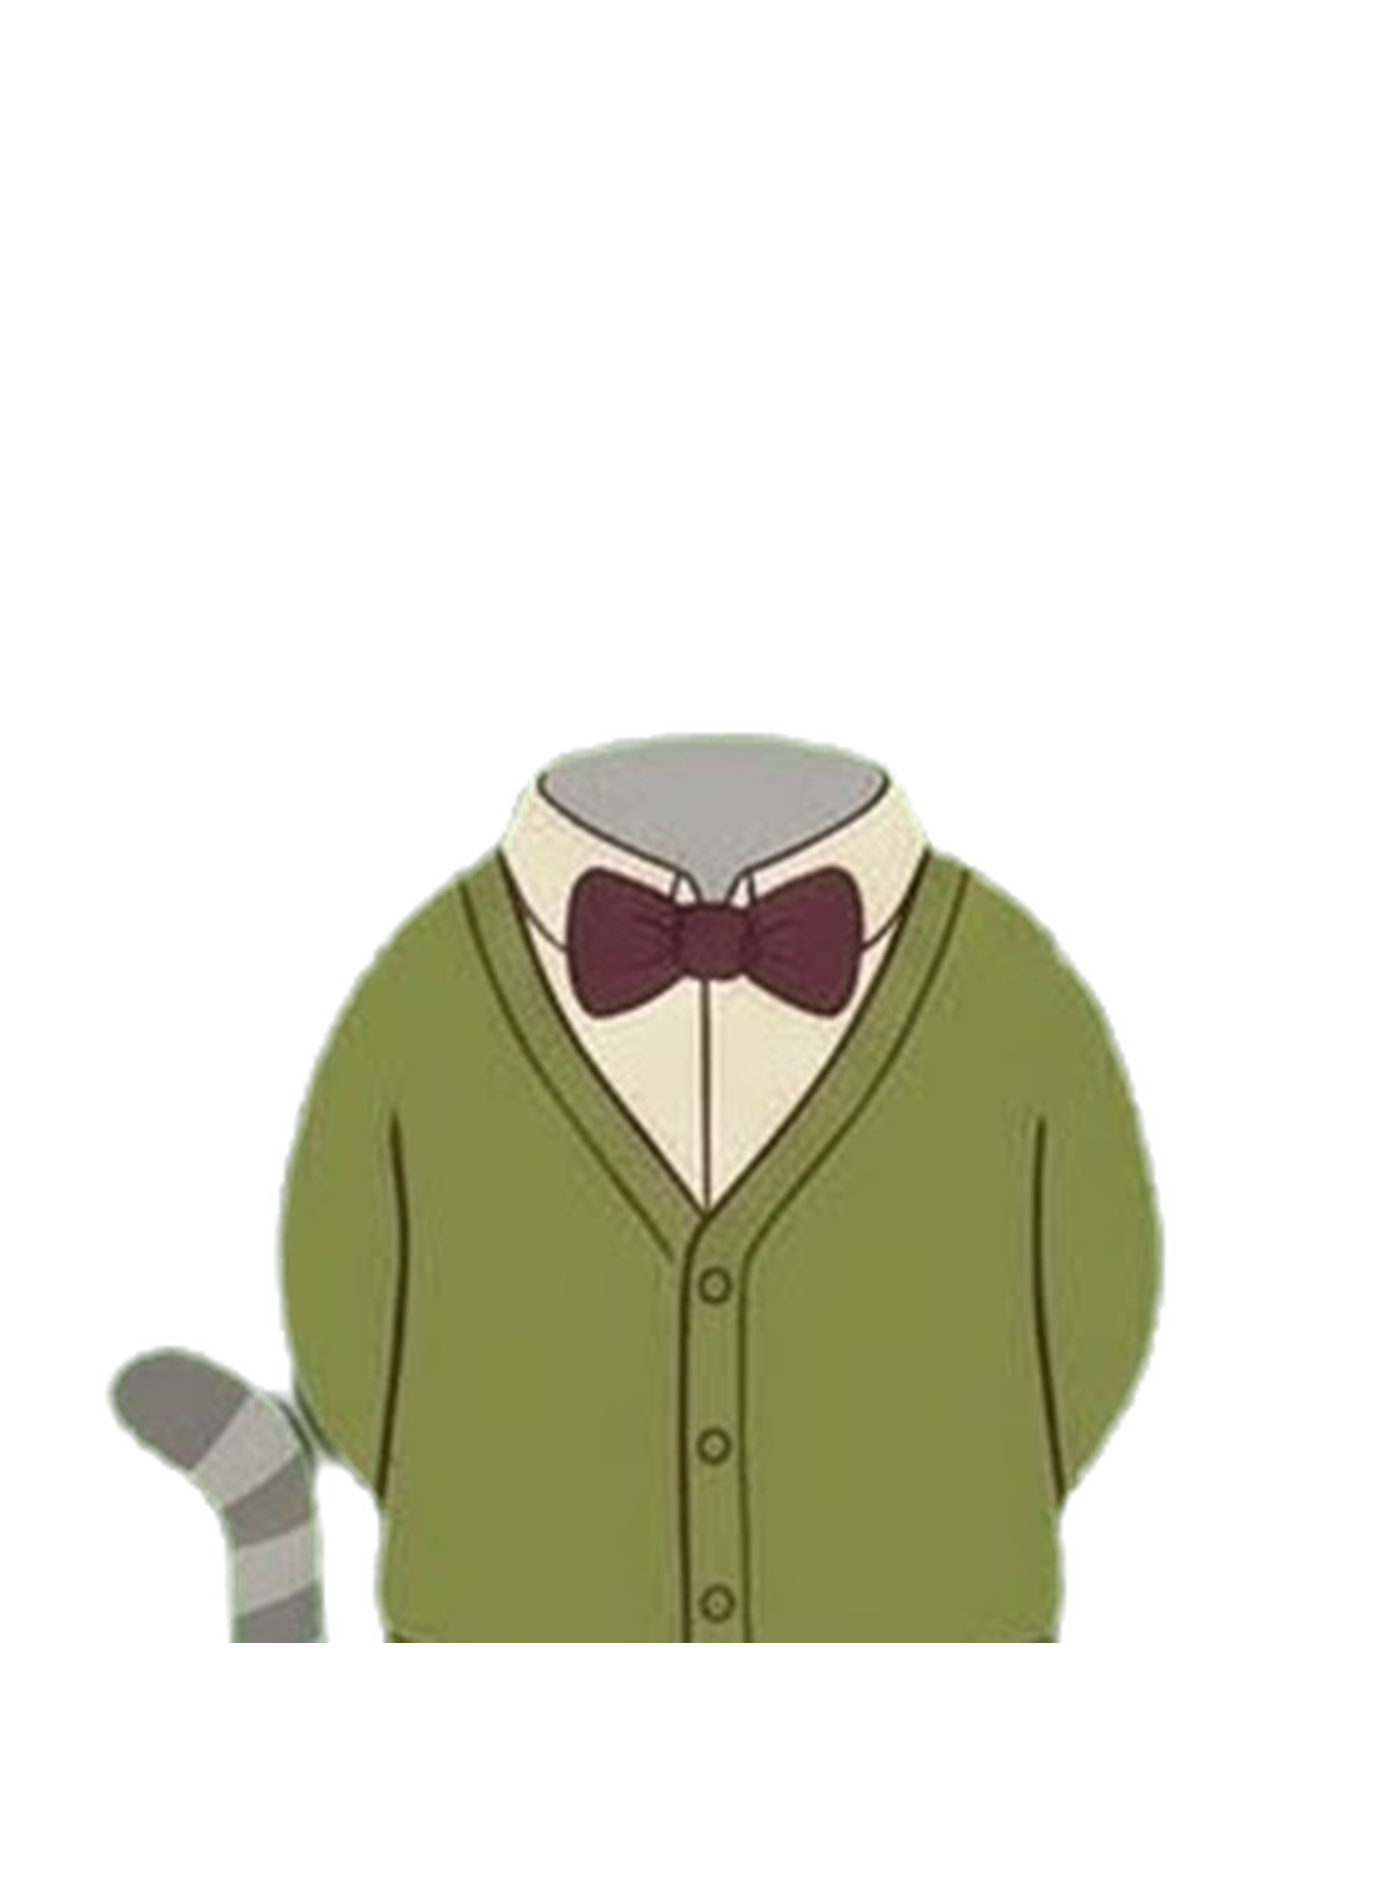
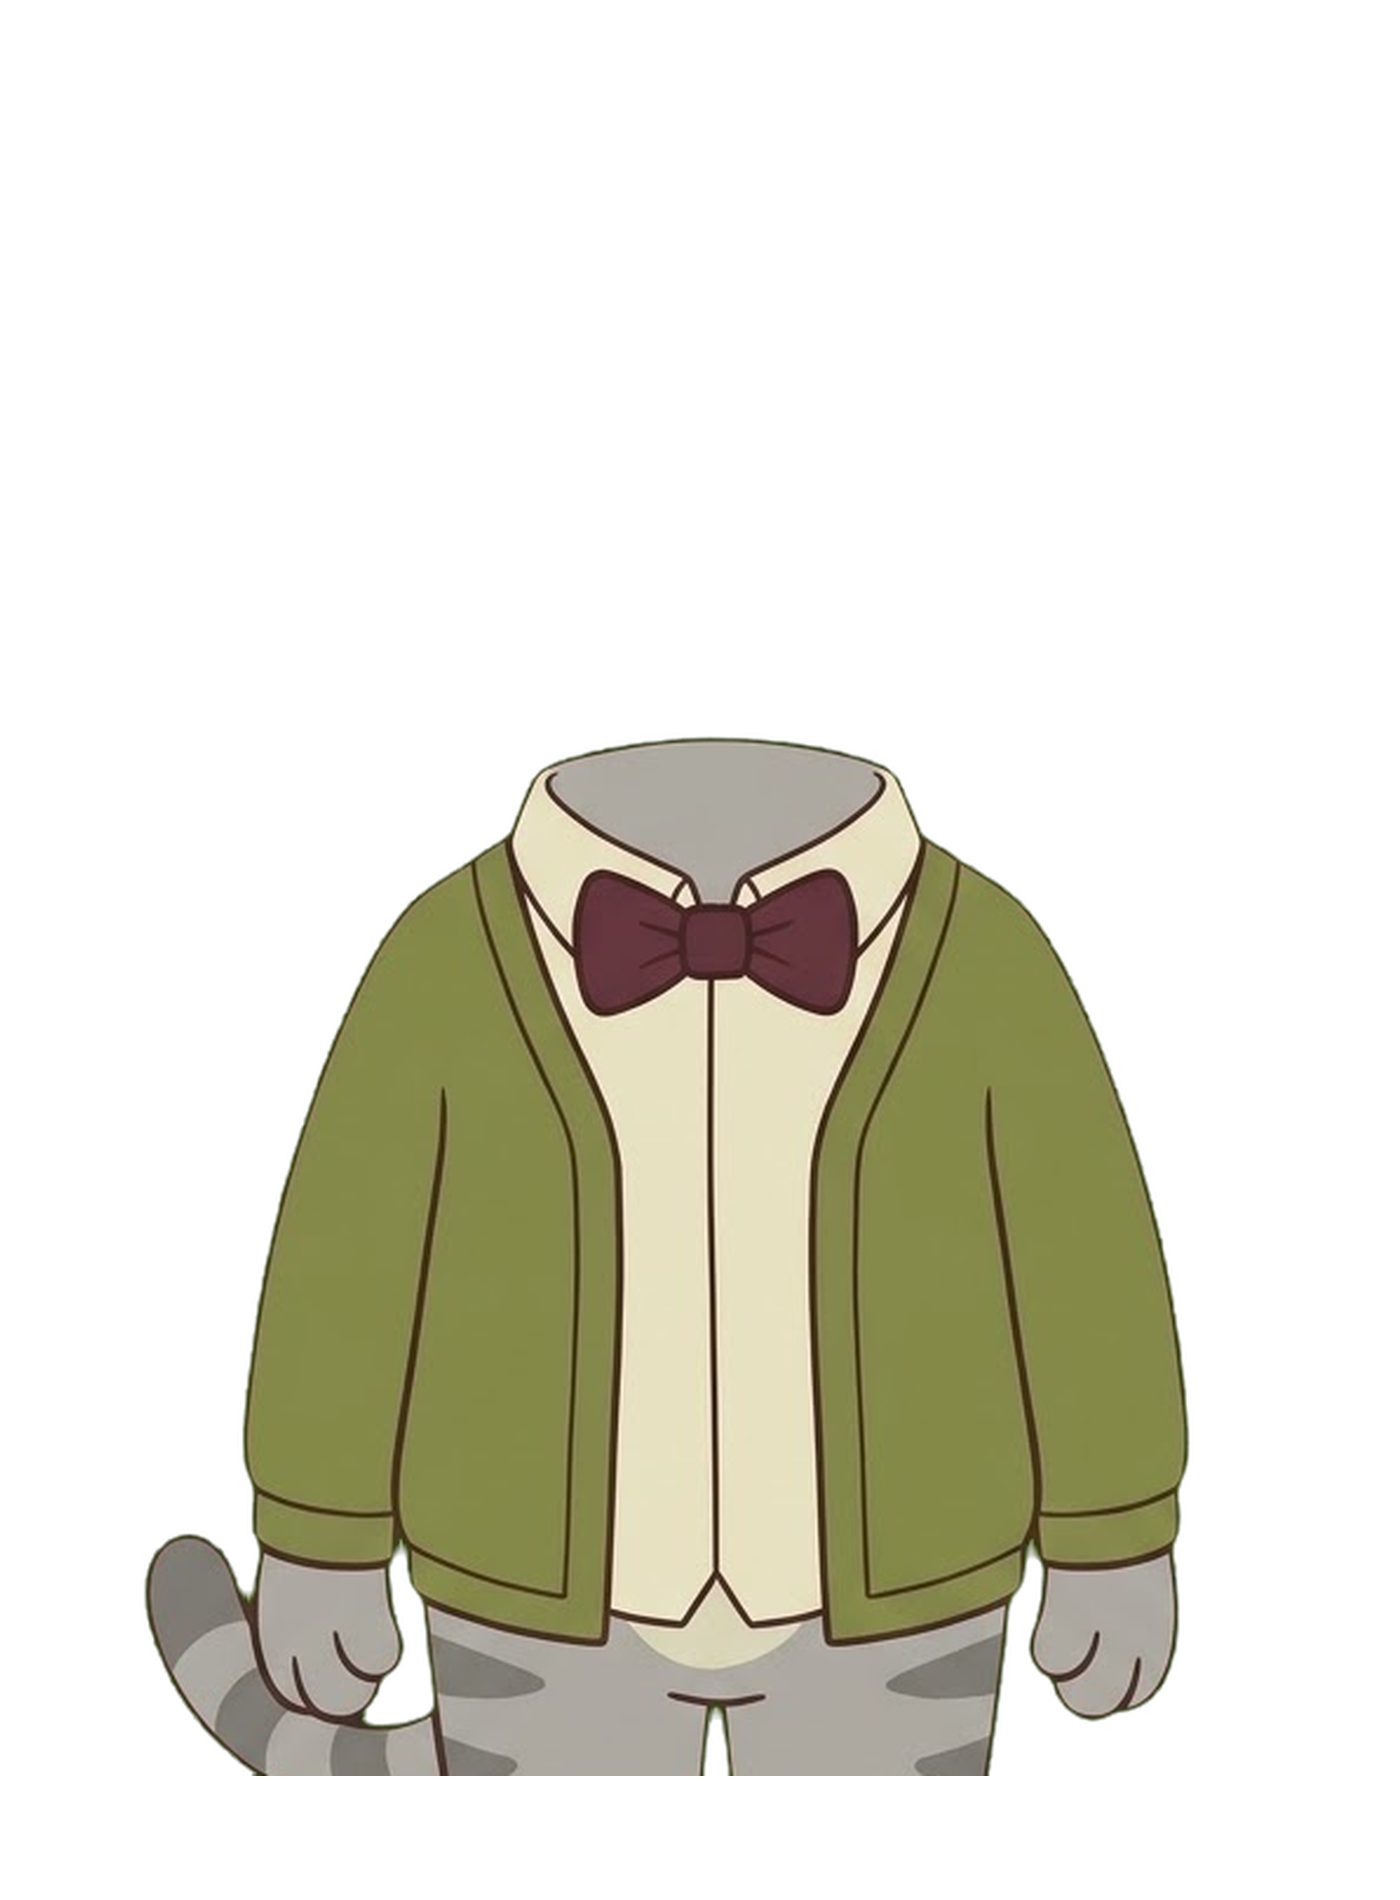
Cuerpos v4 en alta resolución: hoja A 2x2 (stand_front, arms_crossed, book, wave) y parts_body_hd.py
Claude-Session: https://claude.ai/code/session_01NybaBEBQ36CdbDeKLNGsjf

diff --git a/factory/mascot/v4/parts_body_hd.py b/factory/mascot/v4/parts_body_hd.py
@@ -1,0 +1,44 @@
+"""Cuerpos en alta resolución: hojas 2x2 de Gemini (celdas de 512 px o más) alineadas con la cabeza v3 por la PAJARITA.
+  python3 v4/parts_body_hd.py   -> v4/body_<pose>.png (sustituye a los de la hoja 4x4) y v4/body_hd_contact.jpg
+Para añadir una hoja: una entrada en SHEETS (archivo, filas/columnas, {índice de celda: nombre de pose}).
+Quita las rayas divisorias y los números que Gemini dibuja (recorte con margen + componentes pequeños fuera)."""
+import os, sys
+import numpy as np
+from PIL import Image
+from scipy import ndimage
+D = os.path.dirname(os.path.abspath(__file__)); V3 = os.path.join(D, "..", "v3")
+sys.path.insert(0, V3); sys.path.insert(0, D)
+import parts as P
+from parts_body import bow_box, CANVAS, HEAD_AT
+
+SHEETS = [("sheet_cuerpo_A_2x2.png", 2, {0: "stand_front", 1: "arms_crossed", 2: "book", 3: "wave"})]
+INSET = 0.02      # fracción de la celda que se recorta por cada lado (rayas divisorias)
+
+def main():
+    base = Image.open(os.path.join(V3, "base.png")).convert("RGBA")
+    hb = bow_box(base, (300, 800, 724, 1024)); hcx, hcy, hw = (hb[0] + hb[2]) / 2, (hb[1] + hb[3]) / 2, hb[2] - hb[0]
+    thumbs = []
+    for fn, n, poses in SHEETS:
+        S = Image.open(os.path.join(D, fn)).convert("RGB"); cw = S.width / n; ch = S.height / n; m = round(cw * INSET)
+        for i, name in poses.items():
+            r, c = divmod(i, n)
+            cell = S.crop((round(c * cw) + m, round(r * ch) + m, round((c + 1) * cw) - m, round((r + 1) * ch) - m))
+            bb = bow_box(cell, (cell.width // 8, 0, cell.width * 7 // 8, int(cell.height * 0.55)))
+            cell = P.key(cell)
+            al = np.asarray(cell.split()[3]) > 40
+            lab, k = ndimage.label(al)
+            if k >= 1:
+                sizes = ndimage.sum(al, lab, range(1, k + 1)); keep = [j + 1 for j, z in enumerate(sizes) if z >= 0.04 * sizes.max()]
+                ok = ndimage.binary_dilation(np.isin(lab, keep), iterations=4)
+                arr = np.asarray(cell).copy(); arr[..., 3] = np.where(ok, arr[..., 3], 0); cell = Image.fromarray(arr, "RGBA")
+            sc = hw / (bb[2] - bb[0])
+            p = P.place(cell, sc, ((bb[0] + bb[2]) / 2, (bb[1] + bb[3]) / 2), (hcx + HEAD_AT[0], hcy + HEAD_AT[1]), CANVAS)
+            p.save(os.path.join(D, f"body_{name}.png")); print(name, "escala", round(sc, 2), "pajarita", bb, "base del cuerpo", p.split()[3].getbbox())
+            t = Image.new("RGBA", CANVAS, (255, 255, 255, 255)); t.alpha_composite(p)
+            thumbs.append(t.convert("RGB").resize((350, 475)))
+    sh = Image.new("RGB", (350 * len(thumbs), 475), "white")
+    for k, t in enumerate(thumbs): sh.paste(t, (k * 350, 0))
+    sh.save(os.path.join(D, "body_hd_contact.jpg"), quality=88)
+
+if __name__ == "__main__":
+    main()
